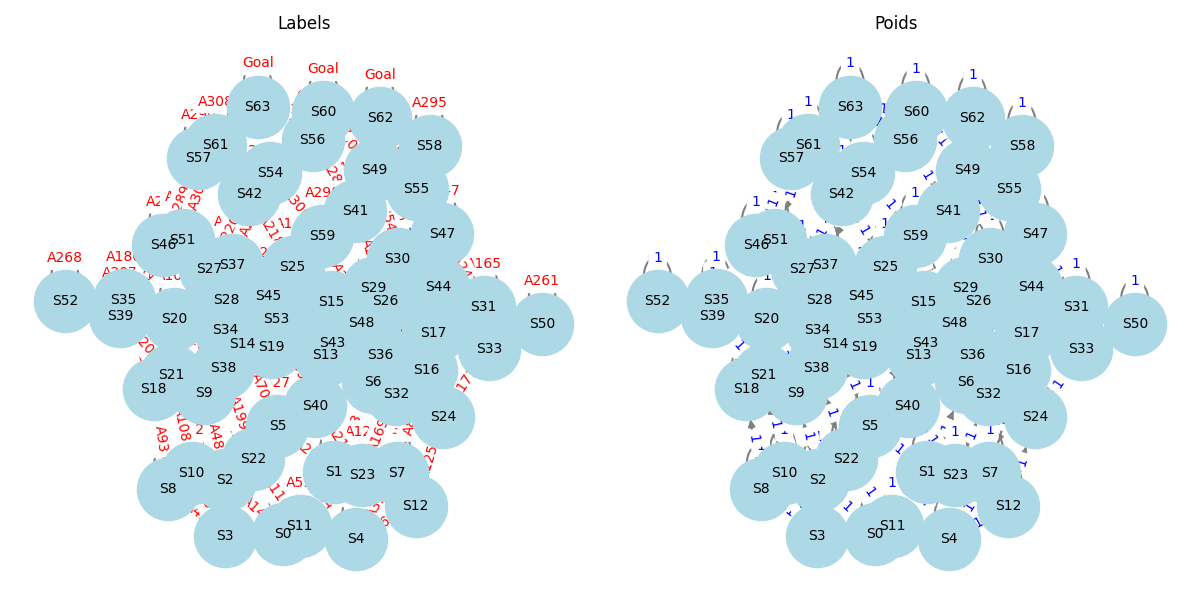
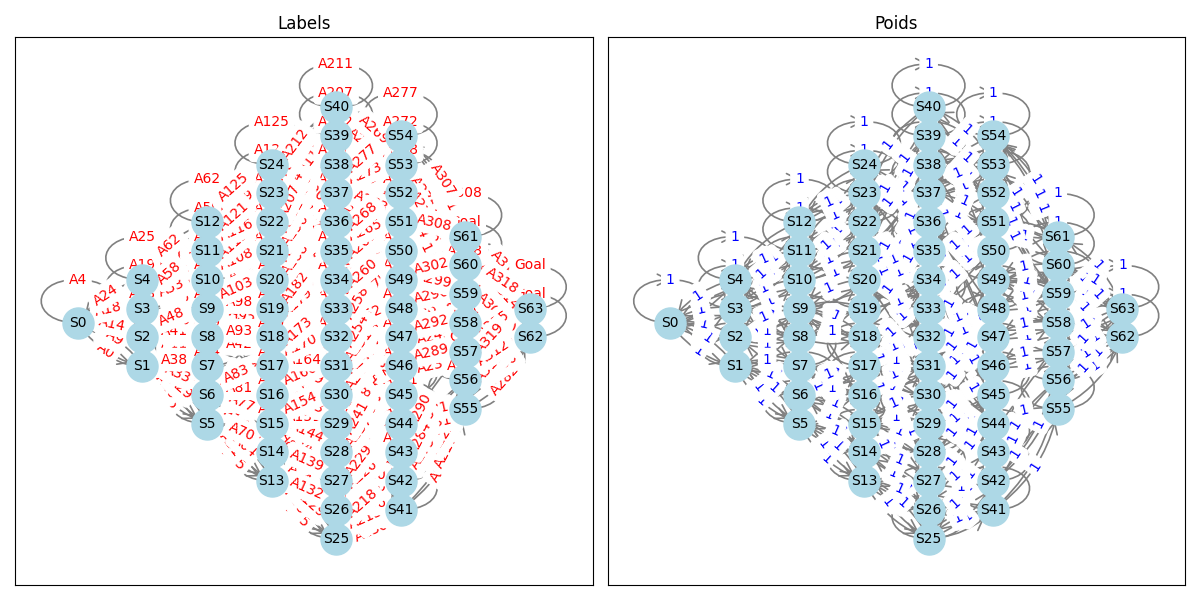
update: visualisation

diff --git a/visualisation.py b/visualisation.py
@@ -30,39 +30,37 @@ def show_poison():
 
 
 
-def show_graph(graph,fichier,pos=None):
+def show_graph(graph, fichier, pos=None):
     fig, ax = plt.subplots(1, 2, figsize=(12, 6))
+    
+    if pos is None:
+        pos = nx.bfs_layout(graph, start="S0")
+    
+    arc_style = "arc3,rad=0.2"
+    node_options = {"node_color": "lightblue", "node_size": 500}
+    edge_options = {"edge_color": "gray", "width": 1.2, "arrows": True, "arrowsize": 20,"arrowstyle": "->"}
 
-    edge_labels = nx.get_edge_attributes(graph, 'label')
-    options = {
-        "node_color": 'lightblue',
-        "node_size": 2000,
-        "font_size": 10,
-        "edge_color": 'gray',
-        "width": 1.5,
-    }
-
-    ax[0].set_title("Labels")
-    if pos is not None:
-        nx.draw(graph, pos, ax=ax[0], with_labels=True, **options)
-        nx.draw_networkx_edge_labels(graph, pos, edge_labels=edge_labels, ax=ax[0], font_color='red')
-    else:
-        pos = nx.spring_layout(graph)
-        nx.draw(graph, pos, ax=ax[0], with_labels=True, **options)
-        nx.draw_networkx_edge_labels(graph, pos, edge_labels=edge_labels, ax=ax[0], font_color='red')
-
-    ax[1].set_title("Poids")
-    edge_labels = nx.get_edge_attributes(graph, 'weight')
-    if pos is not None:
-        nx.draw(graph, pos, ax=ax[1], with_labels=True, **options)
-        nx.draw_networkx_edge_labels(graph, pos, edge_labels=edge_labels, ax=ax[1], font_color='blue')
-    else:
-        nx.draw(graph, pos, ax=ax[1], with_labels=True, **options)
-        nx.draw_networkx_edge_labels(graph, pos, edge_labels=edge_labels, ax=ax[1], font_color='blue')
+    for axis, attr, color, title in [
+        (ax[0], 'label',  'red',  "Labels"),
+        (ax[1], 'weight', 'blue', "Poids"),
+    ]:
+        axis.set_title(title)
+        nx.draw_networkx_nodes(graph, pos, ax=axis, **node_options)
+        nx.draw_networkx_labels(graph, pos, ax=axis, font_size=10)
+        nx.draw_networkx_edges(graph, pos, ax=axis, connectionstyle=arc_style, **edge_options)
+        edge_labels = nx.get_edge_attributes(graph, attr)
+        nx.draw_networkx_edge_labels(
+            graph, pos,
+            edge_labels=edge_labels,
+            ax=axis,
+            font_color=color,
+            connectionstyle=arc_style,
+        )
 
     plt.tight_layout()
     plt.savefig(f"fig/{fichier}.png")
     plt.show()
+
 
 import pickle
 

diff --git a/main.py b/main.py
@@ -17,8 +17,9 @@ if __name__ == "__main__":
     expertise =complete_expertise(G,{})
     add_expertise(G, expertise)
     pi1 = {}
-    G.policies = {"pi1": complete_policy(pi1, G)}
-    print(get_path(G,G.policies["pi1"],"S0"))
+    G.policies = {"pi1": {"S0":"A0","S1":"A2","S2":"Goal"},"pi2":{"S0":"A0","S1":"A2","S2":"A4","S3":"A5","S4":"Goal"}}
+
+    print(get_path(G,G.policies["pi2"],"S0"))
     analyze_policies(G, G.policies, list(G.policies.keys()), "pi1", start_state="S0", agg_func=agg, horizon=horizon, cout_max_obs=coût_max_obs, cout_max_opt=coût_max_opt, pi_opt=None, lambda1=lambda1, lambda2=lambda2)    
 
     # print(f"Parametres : lambda1={lambda1}, lambda2={lambda2}, horizon={horizon}, agg={agg.__name__}, coût_max_obs={coût_max_obs}, coût_max_opt={coût_max_opt}\n")
